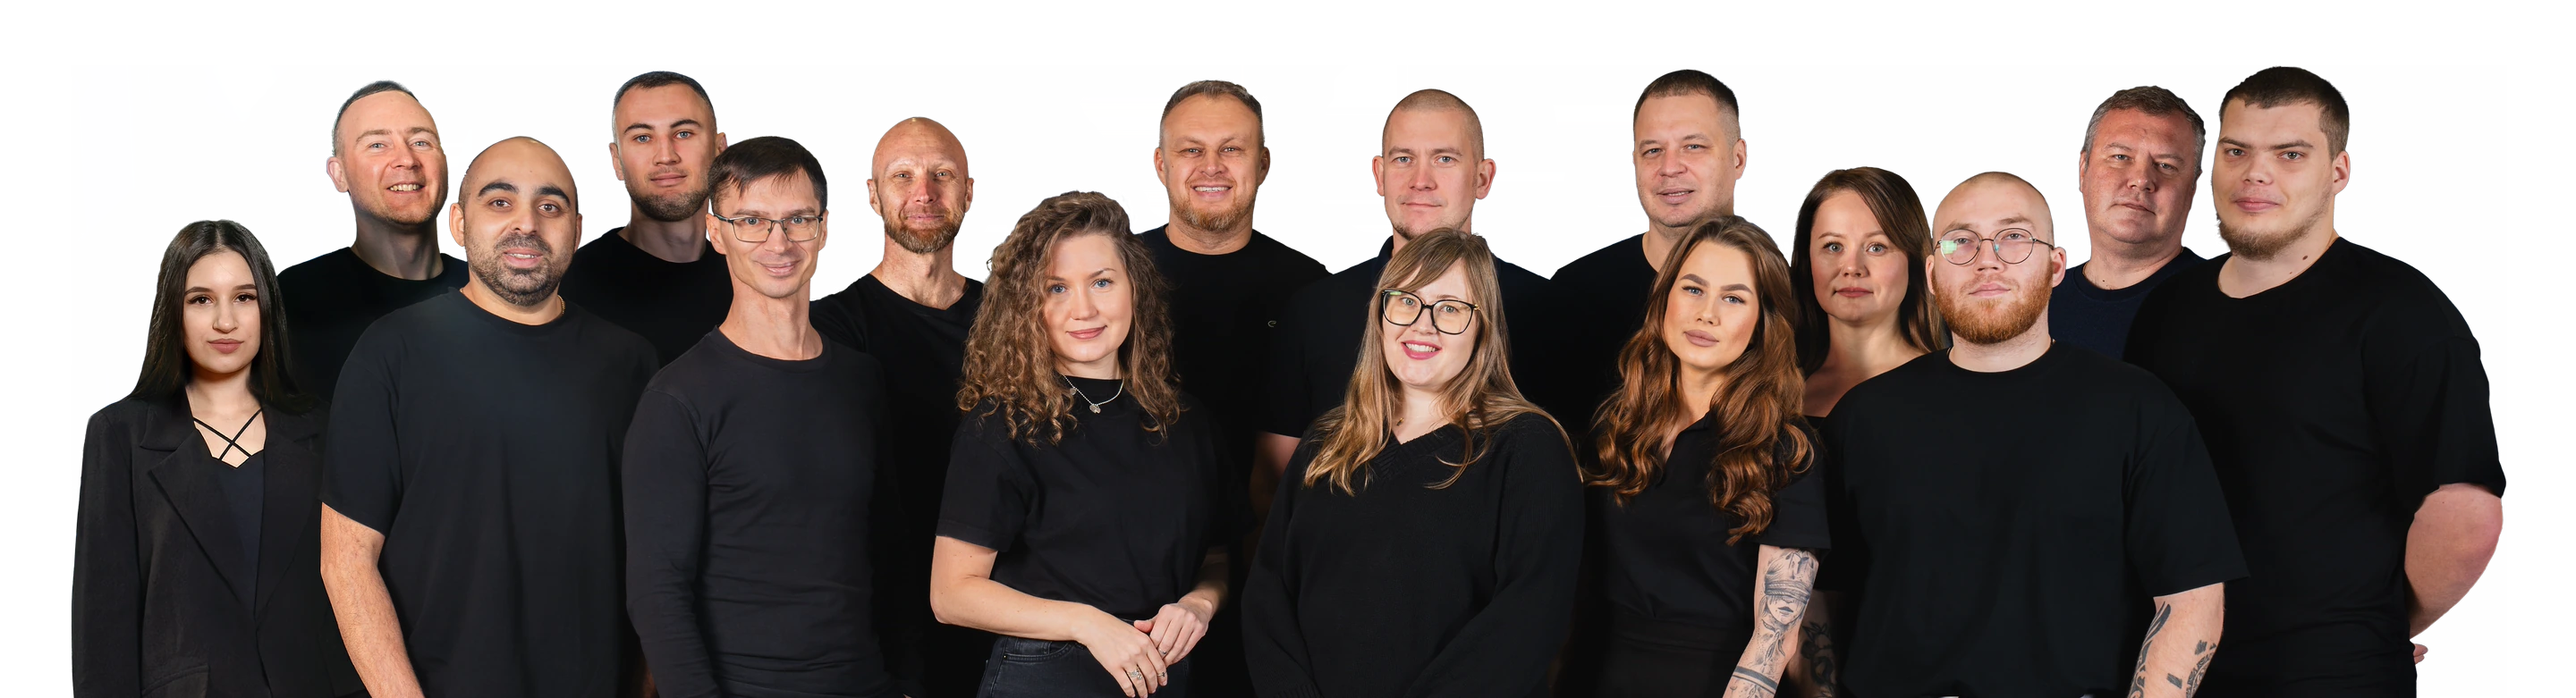
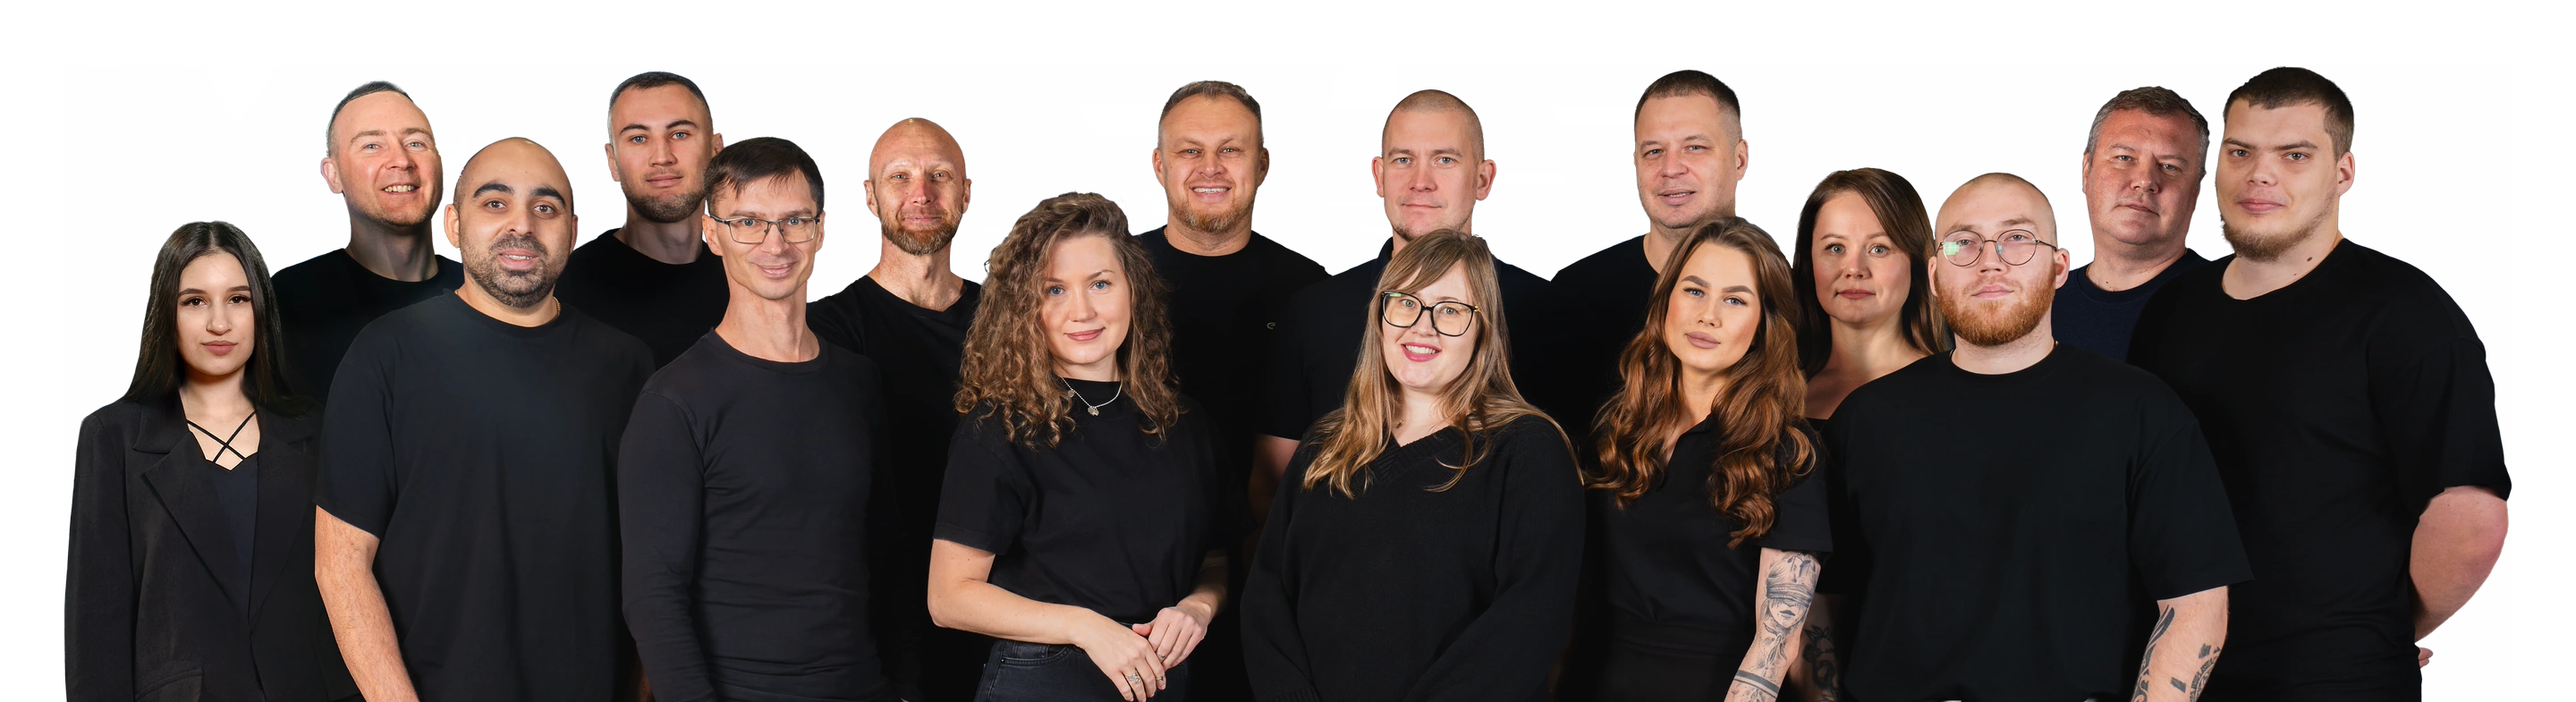
Use the approved 95 percent team portrait on the homepage

diff --git a/index.html b/index.html
@@ -17,7 +17,7 @@
 <link rel="preload" href="/fonts/Jura-400-cyrillic.woff2" as="font" type="font/woff2" crossorigin>
 <link rel="preload" href="/fonts/Jura-400-latin.woff2" as="font" type="font/woff2" crossorigin>
 <link rel="stylesheet" href="/fonts/fonts.css?v=d6a2c730">
-<link rel="stylesheet" href="/css/template_styles.css?v=7d81b494">
+<link rel="stylesheet" href="/css/template_styles.css?v=725d0c7e">
 <link rel="stylesheet" href="/css/styles.css?v=573e6710">
 <script type="application/ld+json">{"@context":"https://schema.org","@type":"Organization","@id":"https://nzmo-home.vercel.app/#org","name":"НЗМО — Новосибирский завод металлообработки","alternateName":"НЗМО","url":"https://nzmo-home.vercel.app/","logo":"https://nzmo-home.vercel.app/img/logo/04_gorizont_gold-navy.svg","telephone":"+7 (383) 234-91-52","email":"zakaz@nzmo.ru","address":{"@type":"PostalAddress","addressLocality":"Новосибирск","streetAddress":"ул. Челюскинцев, 30/2, офис 410","addressCountry":"RU"},"contactPoint":{"@type":"ContactPoint","telephone":"+7 (383) 234-91-52","contactType":"sales","areaServed":"RU","availableLanguage":"ru"},"foundingDate":"2021","taxID":"5406813782","brand":[{"@type":"Brand","name":"AIRWOOD"},{"@type":"Brand","name":"ALFAPANEL"}]}</script>
 <link rel="stylesheet" href="/css/home-partners-20261106.css?v=14b3a1c8">
@@ -584,7 +584,7 @@
     <div class="kicker"><span class="n">9</span><span class="l">Команда</span></div>
     <div class="section-head"><h2 class="t-2">Делаем так, чтобы глаз радовался</h2></div>
   </div>
-  <div class="team__photo"><img src="/img/team/komanda-zavoda-nzmo-2026-1920.webp?v=ce70b453" srcset="/img/team/komanda-zavoda-nzmo-2026-960.webp?v=7c71c546 960w, /img/team/komanda-zavoda-nzmo-2026-1920.webp?v=ce70b453 1920w, /img/team/komanda-zavoda-nzmo-2026-2880.webp?v=61a8d149 2880w" sizes="100vw" width="1920" height="520" alt="Команда завода НЗМО, 2026 год" loading="lazy" decoding="async"></div>
+  <div class="team__photo"><img src="/img/team/komanda-zavoda-nzmo-2026-1920.webp?v=3d2f6cc3" srcset="/img/team/komanda-zavoda-nzmo-2026-960.webp?v=ae465ae1 960w, /img/team/komanda-zavoda-nzmo-2026-1920.webp?v=3d2f6cc3 1920w, /img/team/komanda-zavoda-nzmo-2026-2880.webp?v=07d27281 2880w" sizes="100vw" width="1920" height="523" alt="Команда завода НЗМО, 2026 год" loading="lazy" decoding="async"></div>
 </section>
 
 </main>

diff --git a/css/template_styles.css b/css/template_styles.css
@@ -489,7 +489,7 @@ table.t a:hover{color:var(--ochre-800)}
   position:relative;
   isolation:isolate;
   margin-top:clamp(24px,2.5vw,44px);
-  padding:clamp(6px,1vw,16px) var(--gutter) 0;
+  padding:clamp(6px,1vw,16px) 0 0;
 }
 .team__photo img{
   position:relative;
